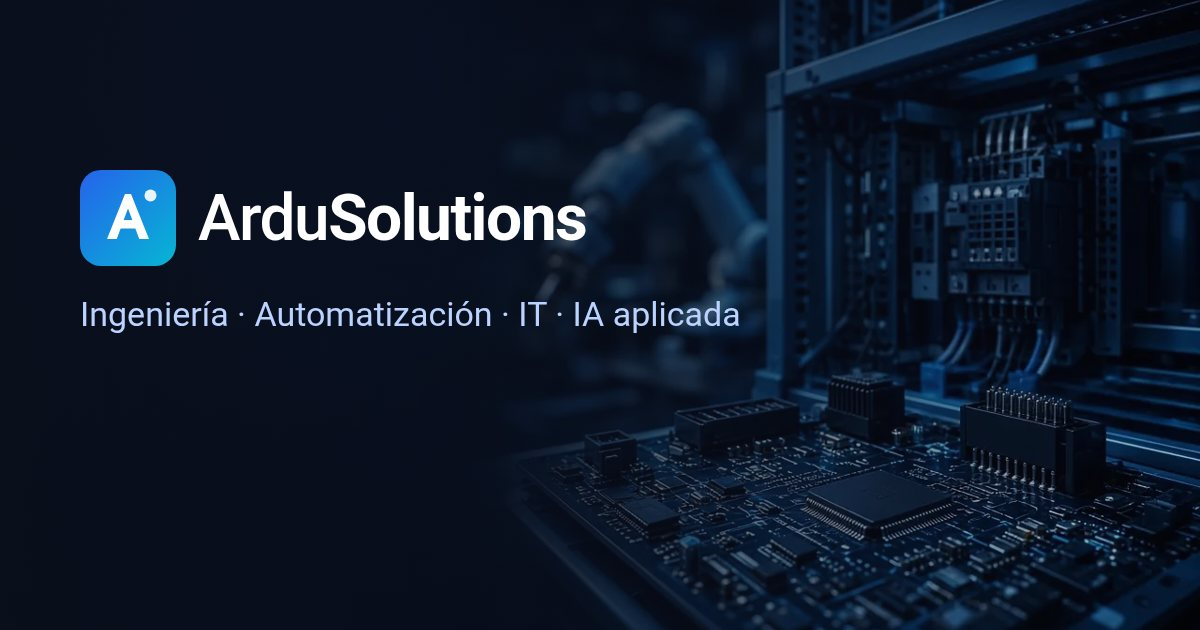
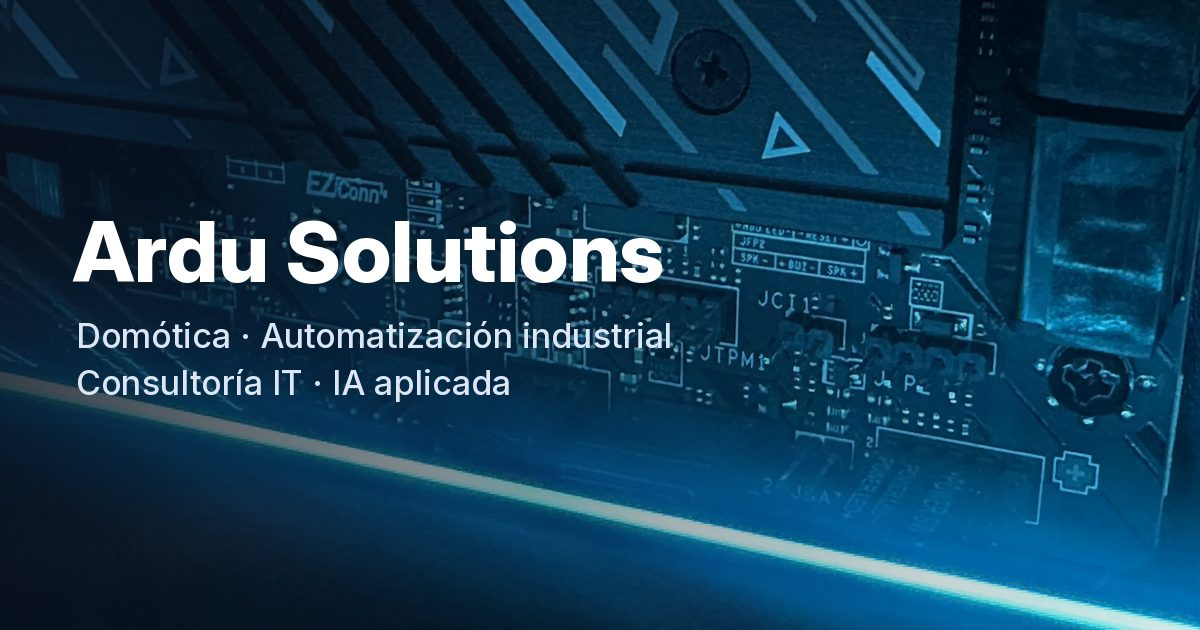
Cabecera con foto propia (sin EXIF), og:image nueva, sin crédito de IA, estilo de opciones del formulario y 404 noindex

diff --git a/aviso-legal/index.html b/aviso-legal/index.html
@@ -193,7 +193,10 @@ main{position:relative}
 .f textarea{resize:vertical;min-height:140px}
 .f input:focus,.f select:focus,.f textarea:focus{outline:2px solid var(--accent);outline-offset:1px;border-color:var(--accent)}
 .f .bad,.bad{border-color:#dc2626!important;box-shadow:0 0 0 3px rgba(220,38,38,.15)}
-.radios{display:flex;flex-wrap:wrap;gap:10px 24px}.radios legend{margin-bottom:8px;width:100%}.radios label{display:flex;align-items:center;gap:8px;font-size:15px;white-space:nowrap}
+.radios{display:flex;flex-wrap:wrap;gap:10px 24px}.radios legend{margin-bottom:8px;width:100%}
+.radios label{display:inline-flex;align-items:center;gap:8px;font-weight:500;cursor:pointer}
+.f.radios input{width:18px;height:18px;padding:0;margin:0;flex:none;accent-color:var(--accent)}
+.consent input{accent-color:var(--accent)}.radios label{display:flex;align-items:center;gap:8px;font-size:15px;white-space:nowrap}
 .hint{margin:-8px 0 0;font-size:14px;color:var(--muted)}
 .hpf{position:absolute;left:-10000px;width:1px;height:1px;overflow:hidden}
 .consent{display:flex;gap:10px;align-items:flex-start;font-size:15px}.consent input{margin-top:5px;width:18px;height:18px;flex:none}
@@ -221,7 +224,7 @@ main{position:relative}
 <nav class="bc" aria-label="Ruta de navegación"><ol class="wrap"><li><a href="../">Inicio</a></li><li aria-current="page">Aviso legal</li></ol></nav><section class="phero"><div class="wrap"><span class="kicker lt">Aviso legal</span><h1>Aviso legal</h1><p class="lead">Ardu Solutions</p></div></section><section><div class="wrap prose"><h2>1. Titular del sitio web</h2><p>En cumplimiento del artículo 10 de la Ley 34/2002, de Servicios de la Sociedad de la Información y de Comercio Electrónico (LSSI-CE), se informa de los datos del titular de este sitio web:</p>
 <ul><li><strong>Titular:</strong> <mark class="todo">[PENDIENTE: nombre completo o razón social del titular]</mark><!-- TODO Miguel: nombre completo o razón social del titular --> (nombre comercial: Ardu Solutions)</li><li><strong>NIF/CIF:</strong> <mark class="todo">[PENDIENTE: NIF o CIF]</mark><!-- TODO Miguel: NIF o CIF --></li><li><strong>Domicilio:</strong> <mark class="todo">[PENDIENTE: domicilio fiscal]</mark><!-- TODO Miguel: domicilio fiscal --></li><li><strong>Contacto:</strong> <mark class="todo">[PENDIENTE: email de contacto]</mark><!-- TODO Miguel: email de contacto --> · también a través del <a href="../solicitar/">formulario de solicitud</a></li><li><strong>Datos registrales:</strong> <mark class="todo">[PENDIENTE: datos del Registro Mercantil, solo si es una sociedad]</mark><!-- TODO Miguel: datos del Registro Mercantil, solo si es una sociedad --></li></ul>
 <h2>2. Objeto y condiciones de uso</h2><p>Este sitio web presenta los servicios de Ardu Solutions (domótica, consultoría informática, automatización industrial e inteligencia artificial aplicada) y permite solicitar información o presupuesto. El acceso es gratuito y no requiere registro. Al usarlo, te comprometes a hacerlo de forma lícita y a no dañar su funcionamiento.</p>
-<h2>3. Propiedad intelectual e industrial</h2><p>Los textos, el logotipo, la marca “Ardu Solutions” y el diseño de este sitio son © 2026 Ardu Solutions, salvo indicación en contrario. El código fuente del sitio se publica bajo licencia GPL-3.0. Las fotografías del equipo y las imágenes de proyectos se usan exclusivamente en esta web. La imagen principal se ha generado con inteligencia artificial.</p>
+<h2>3. Propiedad intelectual e industrial</h2><p>Los textos, el logotipo, la marca “Ardu Solutions” y el diseño de este sitio son © 2026 Ardu Solutions, salvo indicación en contrario. El código fuente del sitio se publica bajo licencia GPL-3.0. Las fotografías del equipo y las imágenes de proyectos se usan exclusivamente en esta web. La fotografía de la cabecera es propia del equipo.</p>
 <h2>4. Responsabilidad</h2><p>Ardu Solutions procura que la información publicada sea correcta y esté actualizada, pero no garantiza la ausencia de errores. La información de esta web es orientativa y no constituye una oferta vinculante: las condiciones de cada servicio se fijan en la propuesta escrita que se envía a cada cliente. Ardu Solutions no se responsabiliza de los contenidos de sitios externos enlazados.</p>
 <h2>5. Protección de datos y cookies</h2><p>El tratamiento de los datos personales se explica en la <a href="../privacidad/">política de privacidad</a>. Este sitio no usa cookies ni herramientas de analítica o publicidad.</p>
 <h2>6. Legislación aplicable</h2><p>Este aviso legal se rige por la legislación española.</p><p class="fine">Última actualización: 30 de octubre de 2026.</p></div></section>
@@ -231,6 +234,6 @@ main{position:relative}
 <div><h2 class="fh">Empresa</h2><ul><li><a href="../como-trabajamos/">Cómo trabajamos</a></li><li><a href="../proyectos/">Proyectos</a></li><li><a href="../#equipo">Equipo</a></li><li><a href="../#faq">Preguntas frecuentes</a></li></ul></div>
 <div><h2 class="fh">Servicios</h2><ul><li><a href="../servicios/domotica/">Domótica para casa</a></li><li><a href="../servicios/consultoria-it/">Consultoría IT para pymes</a></li><li><a href="../servicios/automatizacion-industrial/">Automatización industrial</a></li><li><a href="../servicios/ia-aplicada/">IA aplicada a empresas</a></li></ul></div>
 <div><h2 class="fh">Más</h2><ul><li><a href="../en/legal-notice/" hreflang="en">English</a></li><li><a href="https://ardu01.github.io/proyectos/">Todos los proyectos</a></li><li><a href="../aviso-legal/">Aviso legal</a></li><li><a href="../privacidad/">Política de privacidad</a></li></ul></div>
-</div><div class="wrap fbot"><span>© 2026 Ardu Solutions. Todos los derechos reservados.</span><span>Imagen principal generada con IA. Sin cookies ni rastreadores.</span></div></footer>
+</div><div class="wrap fbot"><span>© 2026 Ardu Solutions. Todos los derechos reservados.</span><span>Sin cookies ni rastreadores.</span></div></footer>
 </body>
 </html>

diff --git a/en/legal-notice/index.html b/en/legal-notice/index.html
@@ -193,7 +193,10 @@ main{position:relative}
 .f textarea{resize:vertical;min-height:140px}
 .f input:focus,.f select:focus,.f textarea:focus{outline:2px solid var(--accent);outline-offset:1px;border-color:var(--accent)}
 .f .bad,.bad{border-color:#dc2626!important;box-shadow:0 0 0 3px rgba(220,38,38,.15)}
-.radios{display:flex;flex-wrap:wrap;gap:10px 24px}.radios legend{margin-bottom:8px;width:100%}.radios label{display:flex;align-items:center;gap:8px;font-size:15px;white-space:nowrap}
+.radios{display:flex;flex-wrap:wrap;gap:10px 24px}.radios legend{margin-bottom:8px;width:100%}
+.radios label{display:inline-flex;align-items:center;gap:8px;font-weight:500;cursor:pointer}
+.f.radios input{width:18px;height:18px;padding:0;margin:0;flex:none;accent-color:var(--accent)}
+.consent input{accent-color:var(--accent)}.radios label{display:flex;align-items:center;gap:8px;font-size:15px;white-space:nowrap}
 .hint{margin:-8px 0 0;font-size:14px;color:var(--muted)}
 .hpf{position:absolute;left:-10000px;width:1px;height:1px;overflow:hidden}
 .consent{display:flex;gap:10px;align-items:flex-start;font-size:15px}.consent input{margin-top:5px;width:18px;height:18px;flex:none}
@@ -221,7 +224,7 @@ main{position:relative}
 <nav class="bc" aria-label="Breadcrumb"><ol class="wrap"><li><a href="../../en/">Home</a></li><li aria-current="page">Legal notice</li></ol></nav><section class="phero"><div class="wrap"><span class="kicker lt">Legal notice</span><h1>Legal notice</h1><p class="lead">Ardu Solutions</p></div></section><section><div class="wrap prose"><h2>1. Website owner</h2><p>In accordance with article 10 of Spanish Law 34/2002 on Information Society Services and E-commerce (LSSI-CE), the owner’s details are:</p>
 <ul><li><strong>Owner:</strong> <mark class="todo">[PENDIENTE: full legal name or company name]</mark><!-- TODO Miguel: full legal name or company name --> (trade name: Ardu Solutions)</li><li><strong>Tax ID (NIF/CIF):</strong> <mark class="todo">[PENDIENTE: NIF or CIF]</mark><!-- TODO Miguel: NIF or CIF --></li><li><strong>Address:</strong> <mark class="todo">[PENDIENTE: registered address]</mark><!-- TODO Miguel: registered address --></li><li><strong>Contact:</strong> <mark class="todo">[PENDIENTE: contact email]</mark><!-- TODO Miguel: contact email --> · also through the <a href="../../en/request/">request form</a></li><li><strong>Registry details:</strong> <mark class="todo">[PENDIENTE: Commercial Registry details, only if a company]</mark><!-- TODO Miguel: Commercial Registry details, only if a company --></li></ul>
 <h2>2. Purpose and terms of use</h2><p>This website presents the services of Ardu Solutions (home automation, IT consulting, industrial automation and applied artificial intelligence) and lets you request information or a quote. Access is free and needs no registration. By using it you agree to do so lawfully and not to harm its operation.</p>
-<h2>3. Intellectual and industrial property</h2><p>The texts, logo, the “Ardu Solutions” brand and the design of this site are © 2026 Ardu Solutions unless stated otherwise. The site’s source code is published under the GPL-3.0 licence. Team photos and project images are used exclusively on this website. The main image was generated with artificial intelligence.</p>
+<h2>3. Intellectual and industrial property</h2><p>The texts, logo, the “Ardu Solutions” brand and the design of this site are © 2026 Ardu Solutions unless stated otherwise. The site’s source code is published under the GPL-3.0 licence. Team photos and project images are used exclusively on this website. The header photograph was taken by the team.</p>
 <h2>4. Liability</h2><p>Ardu Solutions strives to keep the information correct and up to date but does not guarantee it is error-free. The information on this site is for guidance only and is not a binding offer: the terms of each service are set out in the written proposal sent to each client. Ardu Solutions is not responsible for the content of linked external sites.</p>
 <h2>5. Data protection and cookies</h2><p>The processing of personal data is explained in the <a href="../../en/privacy/">privacy policy</a>. This site uses no cookies, analytics or advertising tools.</p>
 <h2>6. Governing law</h2><p>This legal notice is governed by Spanish law. The Spanish version prevails in case of discrepancy.</p><p class="fine">Last updated: 30 October 2026.</p></div></section>
@@ -231,6 +234,6 @@ main{position:relative}
 <div><h2 class="fh">Company</h2><ul><li><a href="../../en/how-we-work/">How we work</a></li><li><a href="../../en/projects/">Projects</a></li><li><a href="../../en/#equipo">Team</a></li><li><a href="../../en/#faq">Frequently asked questions</a></li></ul></div>
 <div><h2 class="fh">Services</h2><ul><li><a href="../../en/services/home-automation/">Home automation</a></li><li><a href="../../en/services/it-consulting/">IT consulting for SMEs</a></li><li><a href="../../en/services/industrial-automation/">Industrial automation</a></li><li><a href="../../en/services/applied-ai/">Applied AI for business</a></li></ul></div>
 <div><h2 class="fh">More</h2><ul><li><a href="../../aviso-legal/" hreflang="es">Español</a></li><li><a href="https://ardu01.github.io/proyectos/">All projects</a></li><li><a href="../../en/legal-notice/">Legal notice</a></li><li><a href="../../en/privacy/">Privacy policy</a></li></ul></div>
-</div><div class="wrap fbot"><span>© 2026 Ardu Solutions. All rights reserved.</span><span>Hero image generated with AI. No cookies or trackers.</span></div></footer>
+</div><div class="wrap fbot"><span>© 2026 Ardu Solutions. All rights reserved.</span><span>No cookies or trackers.</span></div></footer>
 </body>
 </html>

diff --git a/index.html b/index.html
@@ -193,7 +193,10 @@ main{position:relative}
 .f textarea{resize:vertical;min-height:140px}
 .f input:focus,.f select:focus,.f textarea:focus{outline:2px solid var(--accent);outline-offset:1px;border-color:var(--accent)}
 .f .bad,.bad{border-color:#dc2626!important;box-shadow:0 0 0 3px rgba(220,38,38,.15)}
-.radios{display:flex;flex-wrap:wrap;gap:10px 24px}.radios legend{margin-bottom:8px;width:100%}.radios label{display:flex;align-items:center;gap:8px;font-size:15px;white-space:nowrap}
+.radios{display:flex;flex-wrap:wrap;gap:10px 24px}.radios legend{margin-bottom:8px;width:100%}
+.radios label{display:inline-flex;align-items:center;gap:8px;font-weight:500;cursor:pointer}
+.f.radios input{width:18px;height:18px;padding:0;margin:0;flex:none;accent-color:var(--accent)}
+.consent input{accent-color:var(--accent)}.radios label{display:flex;align-items:center;gap:8px;font-size:15px;white-space:nowrap}
 .hint{margin:-8px 0 0;font-size:14px;color:var(--muted)}
 .hpf{position:absolute;left:-10000px;width:1px;height:1px;overflow:hidden}
 .consent{display:flex;gap:10px;align-items:flex-start;font-size:15px}.consent input{margin-top:5px;width:18px;height:18px;flex:none}
@@ -219,7 +222,7 @@ main{position:relative}
 </nav></header>
 <main id="main">
 <section class="hero">
-<img class="hero-bg" src="assets/img/hero.webp" srcset="assets/img/hero-960.webp 960w, assets/img/hero.webp 1280w" sizes="100vw" alt="" width="1280" height="720" fetchpriority="high">
+<picture><source type="image/webp" srcset="assets/img/cabecera-1200.webp 1200w, assets/img/cabecera-1600.webp 1600w, assets/img/cabecera-2400.webp 2400w" sizes="100vw"><img class="hero-bg" src="assets/img/cabecera-1600.jpg" alt="Primer plano de una placa base con circuitos iluminados en azul" width="1600" height="900" fetchpriority="high"></picture>
 <div class="wrap hero-in">
 <div class="eyebrow">Ingeniería · Automatización · IT · IA aplicada</div>
 <h1>Tecnología que trabaja <span class="grad">para ti.</span></h1>
@@ -241,6 +244,6 @@ main{position:relative}
 <div><h2 class="fh">Empresa</h2><ul><li><a href="como-trabajamos/">Cómo trabajamos</a></li><li><a href="proyectos/">Proyectos</a></li><li><a href="./#equipo">Equipo</a></li><li><a href="./#faq">Preguntas frecuentes</a></li></ul></div>
 <div><h2 class="fh">Servicios</h2><ul><li><a href="servicios/domotica/">Domótica para casa</a></li><li><a href="servicios/consultoria-it/">Consultoría IT para pymes</a></li><li><a href="servicios/automatizacion-industrial/">Automatización industrial</a></li><li><a href="servicios/ia-aplicada/">IA aplicada a empresas</a></li></ul></div>
 <div><h2 class="fh">Más</h2><ul><li><a href="en/" hreflang="en">English</a></li><li><a href="https://ardu01.github.io/proyectos/">Todos los proyectos</a></li><li><a href="aviso-legal/">Aviso legal</a></li><li><a href="privacidad/">Política de privacidad</a></li></ul></div>
-</div><div class="wrap fbot"><span>© 2026 Ardu Solutions. Todos los derechos reservados.</span><span>Imagen principal generada con IA. Sin cookies ni rastreadores.</span></div></footer>
+</div><div class="wrap fbot"><span>© 2026 Ardu Solutions. Todos los derechos reservados.</span><span>Sin cookies ni rastreadores.</span></div></footer>
 </body>
 </html>

diff --git a/en/index.html b/en/index.html
@@ -193,7 +193,10 @@ main{position:relative}
 .f textarea{resize:vertical;min-height:140px}
 .f input:focus,.f select:focus,.f textarea:focus{outline:2px solid var(--accent);outline-offset:1px;border-color:var(--accent)}
 .f .bad,.bad{border-color:#dc2626!important;box-shadow:0 0 0 3px rgba(220,38,38,.15)}
-.radios{display:flex;flex-wrap:wrap;gap:10px 24px}.radios legend{margin-bottom:8px;width:100%}.radios label{display:flex;align-items:center;gap:8px;font-size:15px;white-space:nowrap}
+.radios{display:flex;flex-wrap:wrap;gap:10px 24px}.radios legend{margin-bottom:8px;width:100%}
+.radios label{display:inline-flex;align-items:center;gap:8px;font-weight:500;cursor:pointer}
+.f.radios input{width:18px;height:18px;padding:0;margin:0;flex:none;accent-color:var(--accent)}
+.consent input{accent-color:var(--accent)}.radios label{display:flex;align-items:center;gap:8px;font-size:15px;white-space:nowrap}
 .hint{margin:-8px 0 0;font-size:14px;color:var(--muted)}
 .hpf{position:absolute;left:-10000px;width:1px;height:1px;overflow:hidden}
 .consent{display:flex;gap:10px;align-items:flex-start;font-size:15px}.consent input{margin-top:5px;width:18px;height:18px;flex:none}
@@ -219,7 +222,7 @@ main{position:relative}
 </nav></header>
 <main id="main">
 <section class="hero">
-<img class="hero-bg" src="../assets/img/hero.webp" srcset="../assets/img/hero-960.webp 960w, ../assets/img/hero.webp 1280w" sizes="100vw" alt="" width="1280" height="720" fetchpriority="high">
+<picture><source type="image/webp" srcset="../assets/img/cabecera-1200.webp 1200w, ../assets/img/cabecera-1600.webp 1600w, ../assets/img/cabecera-2400.webp 2400w" sizes="100vw"><img class="hero-bg" src="../assets/img/cabecera-1600.jpg" alt="Close-up of a motherboard with circuits lit in blue" width="1600" height="900" fetchpriority="high"></picture>
 <div class="wrap hero-in">
 <div class="eyebrow">Engineering · Automation · IT · Applied AI</div>
 <h1>Technology that <span class="grad">works for you.</span></h1>
@@ -241,6 +244,6 @@ main{position:relative}
 <div><h2 class="fh">Company</h2><ul><li><a href="../en/how-we-work/">How we work</a></li><li><a href="../en/projects/">Projects</a></li><li><a href="../en/#equipo">Team</a></li><li><a href="../en/#faq">Frequently asked questions</a></li></ul></div>
 <div><h2 class="fh">Services</h2><ul><li><a href="../en/services/home-automation/">Home automation</a></li><li><a href="../en/services/it-consulting/">IT consulting for SMEs</a></li><li><a href="../en/services/industrial-automation/">Industrial automation</a></li><li><a href="../en/services/applied-ai/">Applied AI for business</a></li></ul></div>
 <div><h2 class="fh">More</h2><ul><li><a href="../" hreflang="es">Español</a></li><li><a href="https://ardu01.github.io/proyectos/">All projects</a></li><li><a href="../en/legal-notice/">Legal notice</a></li><li><a href="../en/privacy/">Privacy policy</a></li></ul></div>
-</div><div class="wrap fbot"><span>© 2026 Ardu Solutions. All rights reserved.</span><span>Hero image generated with AI. No cookies or trackers.</span></div></footer>
+</div><div class="wrap fbot"><span>© 2026 Ardu Solutions. All rights reserved.</span><span>No cookies or trackers.</span></div></footer>
 </body>
 </html>

diff --git a/servicios/automatizacion-industrial/index.html b/servicios/automatizacion-industrial/index.html
@@ -193,7 +193,10 @@ main{position:relative}
 .f textarea{resize:vertical;min-height:140px}
 .f input:focus,.f select:focus,.f textarea:focus{outline:2px solid var(--accent);outline-offset:1px;border-color:var(--accent)}
 .f .bad,.bad{border-color:#dc2626!important;box-shadow:0 0 0 3px rgba(220,38,38,.15)}
-.radios{display:flex;flex-wrap:wrap;gap:10px 24px}.radios legend{margin-bottom:8px;width:100%}.radios label{display:flex;align-items:center;gap:8px;font-size:15px;white-space:nowrap}
+.radios{display:flex;flex-wrap:wrap;gap:10px 24px}.radios legend{margin-bottom:8px;width:100%}
+.radios label{display:inline-flex;align-items:center;gap:8px;font-weight:500;cursor:pointer}
+.f.radios input{width:18px;height:18px;padding:0;margin:0;flex:none;accent-color:var(--accent)}
+.consent input{accent-color:var(--accent)}.radios label{display:flex;align-items:center;gap:8px;font-size:15px;white-space:nowrap}
 .hint{margin:-8px 0 0;font-size:14px;color:var(--muted)}
 .hpf{position:absolute;left:-10000px;width:1px;height:1px;overflow:hidden}
 .consent{display:flex;gap:10px;align-items:flex-start;font-size:15px}.consent input{margin-top:5px;width:18px;height:18px;flex:none}
@@ -231,6 +234,6 @@ main{position:relative}
 <div><h2 class="fh">Empresa</h2><ul><li><a href="../../como-trabajamos/">Cómo trabajamos</a></li><li><a href="../../proyectos/">Proyectos</a></li><li><a href="../../#equipo">Equipo</a></li><li><a href="../../#faq">Preguntas frecuentes</a></li></ul></div>
 <div><h2 class="fh">Servicios</h2><ul><li><a href="../../servicios/domotica/">Domótica para casa</a></li><li><a href="../../servicios/consultoria-it/">Consultoría IT para pymes</a></li><li><a href="../../servicios/automatizacion-industrial/">Automatización industrial</a></li><li><a href="../../servicios/ia-aplicada/">IA aplicada a empresas</a></li></ul></div>
 <div><h2 class="fh">Más</h2><ul><li><a href="../../en/services/industrial-automation/" hreflang="en">English</a></li><li><a href="https://ardu01.github.io/proyectos/">Todos los proyectos</a></li><li><a href="../../aviso-legal/">Aviso legal</a></li><li><a href="../../privacidad/">Política de privacidad</a></li></ul></div>
-</div><div class="wrap fbot"><span>© 2026 Ardu Solutions. Todos los derechos reservados.</span><span>Imagen principal generada con IA. Sin cookies ni rastreadores.</span></div></footer>
+</div><div class="wrap fbot"><span>© 2026 Ardu Solutions. Todos los derechos reservados.</span><span>Sin cookies ni rastreadores.</span></div></footer>
 </body>
 </html>

diff --git a/servicios/domotica/index.html b/servicios/domotica/index.html
@@ -193,7 +193,10 @@ main{position:relative}
 .f textarea{resize:vertical;min-height:140px}
 .f input:focus,.f select:focus,.f textarea:focus{outline:2px solid var(--accent);outline-offset:1px;border-color:var(--accent)}
 .f .bad,.bad{border-color:#dc2626!important;box-shadow:0 0 0 3px rgba(220,38,38,.15)}
-.radios{display:flex;flex-wrap:wrap;gap:10px 24px}.radios legend{margin-bottom:8px;width:100%}.radios label{display:flex;align-items:center;gap:8px;font-size:15px;white-space:nowrap}
+.radios{display:flex;flex-wrap:wrap;gap:10px 24px}.radios legend{margin-bottom:8px;width:100%}
+.radios label{display:inline-flex;align-items:center;gap:8px;font-weight:500;cursor:pointer}
+.f.radios input{width:18px;height:18px;padding:0;margin:0;flex:none;accent-color:var(--accent)}
+.consent input{accent-color:var(--accent)}.radios label{display:flex;align-items:center;gap:8px;font-size:15px;white-space:nowrap}
 .hint{margin:-8px 0 0;font-size:14px;color:var(--muted)}
 .hpf{position:absolute;left:-10000px;width:1px;height:1px;overflow:hidden}
 .consent{display:flex;gap:10px;align-items:flex-start;font-size:15px}.consent input{margin-top:5px;width:18px;height:18px;flex:none}
@@ -231,6 +234,6 @@ main{position:relative}
 <div><h2 class="fh">Empresa</h2><ul><li><a href="../../como-trabajamos/">Cómo trabajamos</a></li><li><a href="../../proyectos/">Proyectos</a></li><li><a href="../../#equipo">Equipo</a></li><li><a href="../../#faq">Preguntas frecuentes</a></li></ul></div>
 <div><h2 class="fh">Servicios</h2><ul><li><a href="../../servicios/domotica/">Domótica para casa</a></li><li><a href="../../servicios/consultoria-it/">Consultoría IT para pymes</a></li><li><a href="../../servicios/automatizacion-industrial/">Automatización industrial</a></li><li><a href="../../servicios/ia-aplicada/">IA aplicada a empresas</a></li></ul></div>
 <div><h2 class="fh">Más</h2><ul><li><a href="../../en/services/home-automation/" hreflang="en">English</a></li><li><a href="https://ardu01.github.io/proyectos/">Todos los proyectos</a></li><li><a href="../../aviso-legal/">Aviso legal</a></li><li><a href="../../privacidad/">Política de privacidad</a></li></ul></div>
-</div><div class="wrap fbot"><span>© 2026 Ardu Solutions. Todos los derechos reservados.</span><span>Imagen principal generada con IA. Sin cookies ni rastreadores.</span></div></footer>
+</div><div class="wrap fbot"><span>© 2026 Ardu Solutions. Todos los derechos reservados.</span><span>Sin cookies ni rastreadores.</span></div></footer>
 </body>
 </html>

diff --git a/en/services/industrial-automation/index.html b/en/services/industrial-automation/index.html
@@ -193,7 +193,10 @@ main{position:relative}
 .f textarea{resize:vertical;min-height:140px}
 .f input:focus,.f select:focus,.f textarea:focus{outline:2px solid var(--accent);outline-offset:1px;border-color:var(--accent)}
 .f .bad,.bad{border-color:#dc2626!important;box-shadow:0 0 0 3px rgba(220,38,38,.15)}
-.radios{display:flex;flex-wrap:wrap;gap:10px 24px}.radios legend{margin-bottom:8px;width:100%}.radios label{display:flex;align-items:center;gap:8px;font-size:15px;white-space:nowrap}
+.radios{display:flex;flex-wrap:wrap;gap:10px 24px}.radios legend{margin-bottom:8px;width:100%}
+.radios label{display:inline-flex;align-items:center;gap:8px;font-weight:500;cursor:pointer}
+.f.radios input{width:18px;height:18px;padding:0;margin:0;flex:none;accent-color:var(--accent)}
+.consent input{accent-color:var(--accent)}.radios label{display:flex;align-items:center;gap:8px;font-size:15px;white-space:nowrap}
 .hint{margin:-8px 0 0;font-size:14px;color:var(--muted)}
 .hpf{position:absolute;left:-10000px;width:1px;height:1px;overflow:hidden}
 .consent{display:flex;gap:10px;align-items:flex-start;font-size:15px}.consent input{margin-top:5px;width:18px;height:18px;flex:none}
@@ -231,6 +234,6 @@ main{position:relative}
 <div><h2 class="fh">Company</h2><ul><li><a href="../../../en/how-we-work/">How we work</a></li><li><a href="../../../en/projects/">Projects</a></li><li><a href="../../../en/#equipo">Team</a></li><li><a href="../../../en/#faq">Frequently asked questions</a></li></ul></div>
 <div><h2 class="fh">Services</h2><ul><li><a href="../../../en/services/home-automation/">Home automation</a></li><li><a href="../../../en/services/it-consulting/">IT consulting for SMEs</a></li><li><a href="../../../en/services/industrial-automation/">Industrial automation</a></li><li><a href="../../../en/services/applied-ai/">Applied AI for business</a></li></ul></div>
 <div><h2 class="fh">More</h2><ul><li><a href="../../../servicios/automatizacion-industrial/" hreflang="es">Español</a></li><li><a href="https://ardu01.github.io/proyectos/">All projects</a></li><li><a href="../../../en/legal-notice/">Legal notice</a></li><li><a href="../../../en/privacy/">Privacy policy</a></li></ul></div>
-</div><div class="wrap fbot"><span>© 2026 Ardu Solutions. All rights reserved.</span><span>Hero image generated with AI. No cookies or trackers.</span></div></footer>
+</div><div class="wrap fbot"><span>© 2026 Ardu Solutions. All rights reserved.</span><span>No cookies or trackers.</span></div></footer>
 </body>
 </html>

diff --git a/servicios/consultoria-it/index.html b/servicios/consultoria-it/index.html
@@ -193,7 +193,10 @@ main{position:relative}
 .f textarea{resize:vertical;min-height:140px}
 .f input:focus,.f select:focus,.f textarea:focus{outline:2px solid var(--accent);outline-offset:1px;border-color:var(--accent)}
 .f .bad,.bad{border-color:#dc2626!important;box-shadow:0 0 0 3px rgba(220,38,38,.15)}
-.radios{display:flex;flex-wrap:wrap;gap:10px 24px}.radios legend{margin-bottom:8px;width:100%}.radios label{display:flex;align-items:center;gap:8px;font-size:15px;white-space:nowrap}
+.radios{display:flex;flex-wrap:wrap;gap:10px 24px}.radios legend{margin-bottom:8px;width:100%}
+.radios label{display:inline-flex;align-items:center;gap:8px;font-weight:500;cursor:pointer}
+.f.radios input{width:18px;height:18px;padding:0;margin:0;flex:none;accent-color:var(--accent)}
+.consent input{accent-color:var(--accent)}.radios label{display:flex;align-items:center;gap:8px;font-size:15px;white-space:nowrap}
 .hint{margin:-8px 0 0;font-size:14px;color:var(--muted)}
 .hpf{position:absolute;left:-10000px;width:1px;height:1px;overflow:hidden}
 .consent{display:flex;gap:10px;align-items:flex-start;font-size:15px}.consent input{margin-top:5px;width:18px;height:18px;flex:none}
@@ -231,6 +234,6 @@ main{position:relative}
 <div><h2 class="fh">Empresa</h2><ul><li><a href="../../como-trabajamos/">Cómo trabajamos</a></li><li><a href="../../proyectos/">Proyectos</a></li><li><a href="../../#equipo">Equipo</a></li><li><a href="../../#faq">Preguntas frecuentes</a></li></ul></div>
 <div><h2 class="fh">Servicios</h2><ul><li><a href="../../servicios/domotica/">Domótica para casa</a></li><li><a href="../../servicios/consultoria-it/">Consultoría IT para pymes</a></li><li><a href="../../servicios/automatizacion-industrial/">Automatización industrial</a></li><li><a href="../../servicios/ia-aplicada/">IA aplicada a empresas</a></li></ul></div>
 <div><h2 class="fh">Más</h2><ul><li><a href="../../en/services/it-consulting/" hreflang="en">English</a></li><li><a href="https://ardu01.github.io/proyectos/">Todos los proyectos</a></li><li><a href="../../aviso-legal/">Aviso legal</a></li><li><a href="../../privacidad/">Política de privacidad</a></li></ul></div>
-</div><div class="wrap fbot"><span>© 2026 Ardu Solutions. Todos los derechos reservados.</span><span>Imagen principal generada con IA. Sin cookies ni rastreadores.</span></div></footer>
+</div><div class="wrap fbot"><span>© 2026 Ardu Solutions. Todos los derechos reservados.</span><span>Sin cookies ni rastreadores.</span></div></footer>
 </body>
 </html>

diff --git a/servicios/ia-aplicada/index.html b/servicios/ia-aplicada/index.html
@@ -193,7 +193,10 @@ main{position:relative}
 .f textarea{resize:vertical;min-height:140px}
 .f input:focus,.f select:focus,.f textarea:focus{outline:2px solid var(--accent);outline-offset:1px;border-color:var(--accent)}
 .f .bad,.bad{border-color:#dc2626!important;box-shadow:0 0 0 3px rgba(220,38,38,.15)}
-.radios{display:flex;flex-wrap:wrap;gap:10px 24px}.radios legend{margin-bottom:8px;width:100%}.radios label{display:flex;align-items:center;gap:8px;font-size:15px;white-space:nowrap}
+.radios{display:flex;flex-wrap:wrap;gap:10px 24px}.radios legend{margin-bottom:8px;width:100%}
+.radios label{display:inline-flex;align-items:center;gap:8px;font-weight:500;cursor:pointer}
+.f.radios input{width:18px;height:18px;padding:0;margin:0;flex:none;accent-color:var(--accent)}
+.consent input{accent-color:var(--accent)}.radios label{display:flex;align-items:center;gap:8px;font-size:15px;white-space:nowrap}
 .hint{margin:-8px 0 0;font-size:14px;color:var(--muted)}
 .hpf{position:absolute;left:-10000px;width:1px;height:1px;overflow:hidden}
 .consent{display:flex;gap:10px;align-items:flex-start;font-size:15px}.consent input{margin-top:5px;width:18px;height:18px;flex:none}
@@ -231,6 +234,6 @@ main{position:relative}
 <div><h2 class="fh">Empresa</h2><ul><li><a href="../../como-trabajamos/">Cómo trabajamos</a></li><li><a href="../../proyectos/">Proyectos</a></li><li><a href="../../#equipo">Equipo</a></li><li><a href="../../#faq">Preguntas frecuentes</a></li></ul></div>
 <div><h2 class="fh">Servicios</h2><ul><li><a href="../../servicios/domotica/">Domótica para casa</a></li><li><a href="../../servicios/consultoria-it/">Consultoría IT para pymes</a></li><li><a href="../../servicios/automatizacion-industrial/">Automatización industrial</a></li><li><a href="../../servicios/ia-aplicada/">IA aplicada a empresas</a></li></ul></div>
 <div><h2 class="fh">Más</h2><ul><li><a href="../../en/services/applied-ai/" hreflang="en">English</a></li><li><a href="https://ardu01.github.io/proyectos/">Todos los proyectos</a></li><li><a href="../../aviso-legal/">Aviso legal</a></li><li><a href="../../privacidad/">Política de privacidad</a></li></ul></div>
-</div><div class="wrap fbot"><span>© 2026 Ardu Solutions. Todos los derechos reservados.</span><span>Imagen principal generada con IA. Sin cookies ni rastreadores.</span></div></footer>
+</div><div class="wrap fbot"><span>© 2026 Ardu Solutions. Todos los derechos reservados.</span><span>Sin cookies ni rastreadores.</span></div></footer>
 </body>
 </html>

diff --git a/solicitar/gracias/index.html b/solicitar/gracias/index.html
@@ -193,7 +193,10 @@ main{position:relative}
 .f textarea{resize:vertical;min-height:140px}
 .f input:focus,.f select:focus,.f textarea:focus{outline:2px solid var(--accent);outline-offset:1px;border-color:var(--accent)}
 .f .bad,.bad{border-color:#dc2626!important;box-shadow:0 0 0 3px rgba(220,38,38,.15)}
-.radios{display:flex;flex-wrap:wrap;gap:10px 24px}.radios legend{margin-bottom:8px;width:100%}.radios label{display:flex;align-items:center;gap:8px;font-size:15px;white-space:nowrap}
+.radios{display:flex;flex-wrap:wrap;gap:10px 24px}.radios legend{margin-bottom:8px;width:100%}
+.radios label{display:inline-flex;align-items:center;gap:8px;font-weight:500;cursor:pointer}
+.f.radios input{width:18px;height:18px;padding:0;margin:0;flex:none;accent-color:var(--accent)}
+.consent input{accent-color:var(--accent)}.radios label{display:flex;align-items:center;gap:8px;font-size:15px;white-space:nowrap}
 .hint{margin:-8px 0 0;font-size:14px;color:var(--muted)}
 .hpf{position:absolute;left:-10000px;width:1px;height:1px;overflow:hidden}
 .consent{display:flex;gap:10px;align-items:flex-start;font-size:15px}.consent input{margin-top:5px;width:18px;height:18px;flex:none}
@@ -225,6 +228,6 @@ main{position:relative}
 <div><h2 class="fh">Empresa</h2><ul><li><a href="../../como-trabajamos/">Cómo trabajamos</a></li><li><a href="../../proyectos/">Proyectos</a></li><li><a href="../../#equipo">Equipo</a></li><li><a href="../../#faq">Preguntas frecuentes</a></li></ul></div>
 <div><h2 class="fh">Servicios</h2><ul><li><a href="../../servicios/domotica/">Domótica para casa</a></li><li><a href="../../servicios/consultoria-it/">Consultoría IT para pymes</a></li><li><a href="../../servicios/automatizacion-industrial/">Automatización industrial</a></li><li><a href="../../servicios/ia-aplicada/">IA aplicada a empresas</a></li></ul></div>
 <div><h2 class="fh">Más</h2><ul><li><a href="../../en/request/thanks/" hreflang="en">English</a></li><li><a href="https://ardu01.github.io/proyectos/">Todos los proyectos</a></li><li><a href="../../aviso-legal/">Aviso legal</a></li><li><a href="../../privacidad/">Política de privacidad</a></li></ul></div>
-</div><div class="wrap fbot"><span>© 2026 Ardu Solutions. Todos los derechos reservados.</span><span>Imagen principal generada con IA. Sin cookies ni rastreadores.</span></div></footer>
+</div><div class="wrap fbot"><span>© 2026 Ardu Solutions. Todos los derechos reservados.</span><span>Sin cookies ni rastreadores.</span></div></footer>
 </body>
 </html>

diff --git a/en/services/it-consulting/index.html b/en/services/it-consulting/index.html
@@ -193,7 +193,10 @@ main{position:relative}
 .f textarea{resize:vertical;min-height:140px}
 .f input:focus,.f select:focus,.f textarea:focus{outline:2px solid var(--accent);outline-offset:1px;border-color:var(--accent)}
 .f .bad,.bad{border-color:#dc2626!important;box-shadow:0 0 0 3px rgba(220,38,38,.15)}
-.radios{display:flex;flex-wrap:wrap;gap:10px 24px}.radios legend{margin-bottom:8px;width:100%}.radios label{display:flex;align-items:center;gap:8px;font-size:15px;white-space:nowrap}
+.radios{display:flex;flex-wrap:wrap;gap:10px 24px}.radios legend{margin-bottom:8px;width:100%}
+.radios label{display:inline-flex;align-items:center;gap:8px;font-weight:500;cursor:pointer}
+.f.radios input{width:18px;height:18px;padding:0;margin:0;flex:none;accent-color:var(--accent)}
+.consent input{accent-color:var(--accent)}.radios label{display:flex;align-items:center;gap:8px;font-size:15px;white-space:nowrap}
 .hint{margin:-8px 0 0;font-size:14px;color:var(--muted)}
 .hpf{position:absolute;left:-10000px;width:1px;height:1px;overflow:hidden}
 .consent{display:flex;gap:10px;align-items:flex-start;font-size:15px}.consent input{margin-top:5px;width:18px;height:18px;flex:none}
@@ -231,6 +234,6 @@ main{position:relative}
 <div><h2 class="fh">Company</h2><ul><li><a href="../../../en/how-we-work/">How we work</a></li><li><a href="../../../en/projects/">Projects</a></li><li><a href="../../../en/#equipo">Team</a></li><li><a href="../../../en/#faq">Frequently asked questions</a></li></ul></div>
 <div><h2 class="fh">Services</h2><ul><li><a href="../../../en/services/home-automation/">Home automation</a></li><li><a href="../../../en/services/it-consulting/">IT consulting for SMEs</a></li><li><a href="../../../en/services/industrial-automation/">Industrial automation</a></li><li><a href="../../../en/services/applied-ai/">Applied AI for business</a></li></ul></div>
 <div><h2 class="fh">More</h2><ul><li><a href="../../../servicios/consultoria-it/" hreflang="es">Español</a></li><li><a href="https://ardu01.github.io/proyectos/">All projects</a></li><li><a href="../../../en/legal-notice/">Legal notice</a></li><li><a href="../../../en/privacy/">Privacy policy</a></li></ul></div>
-</div><div class="wrap fbot"><span>© 2026 Ardu Solutions. All rights reserved.</span><span>Hero image generated with AI. No cookies or trackers.</span></div></footer>
+</div><div class="wrap fbot"><span>© 2026 Ardu Solutions. All rights reserved.</span><span>No cookies or trackers.</span></div></footer>
 </body>
 </html>

diff --git a/en/services/applied-ai/index.html b/en/services/applied-ai/index.html
@@ -193,7 +193,10 @@ main{position:relative}
 .f textarea{resize:vertical;min-height:140px}
 .f input:focus,.f select:focus,.f textarea:focus{outline:2px solid var(--accent);outline-offset:1px;border-color:var(--accent)}
 .f .bad,.bad{border-color:#dc2626!important;box-shadow:0 0 0 3px rgba(220,38,38,.15)}
-.radios{display:flex;flex-wrap:wrap;gap:10px 24px}.radios legend{margin-bottom:8px;width:100%}.radios label{display:flex;align-items:center;gap:8px;font-size:15px;white-space:nowrap}
+.radios{display:flex;flex-wrap:wrap;gap:10px 24px}.radios legend{margin-bottom:8px;width:100%}
+.radios label{display:inline-flex;align-items:center;gap:8px;font-weight:500;cursor:pointer}
+.f.radios input{width:18px;height:18px;padding:0;margin:0;flex:none;accent-color:var(--accent)}
+.consent input{accent-color:var(--accent)}.radios label{display:flex;align-items:center;gap:8px;font-size:15px;white-space:nowrap}
 .hint{margin:-8px 0 0;font-size:14px;color:var(--muted)}
 .hpf{position:absolute;left:-10000px;width:1px;height:1px;overflow:hidden}
 .consent{display:flex;gap:10px;align-items:flex-start;font-size:15px}.consent input{margin-top:5px;width:18px;height:18px;flex:none}
@@ -231,6 +234,6 @@ main{position:relative}
 <div><h2 class="fh">Company</h2><ul><li><a href="../../../en/how-we-work/">How we work</a></li><li><a href="../../../en/projects/">Projects</a></li><li><a href="../../../en/#equipo">Team</a></li><li><a href="../../../en/#faq">Frequently asked questions</a></li></ul></div>
 <div><h2 class="fh">Services</h2><ul><li><a href="../../../en/services/home-automation/">Home automation</a></li><li><a href="../../../en/services/it-consulting/">IT consulting for SMEs</a></li><li><a href="../../../en/services/industrial-automation/">Industrial automation</a></li><li><a href="../../../en/services/applied-ai/">Applied AI for business</a></li></ul></div>
 <div><h2 class="fh">More</h2><ul><li><a href="../../../servicios/ia-aplicada/" hreflang="es">Español</a></li><li><a href="https://ardu01.github.io/proyectos/">All projects</a></li><li><a href="../../../en/legal-notice/">Legal notice</a></li><li><a href="../../../en/privacy/">Privacy policy</a></li></ul></div>
-</div><div class="wrap fbot"><span>© 2026 Ardu Solutions. All rights reserved.</span><span>Hero image generated with AI. No cookies or trackers.</span></div></footer>
+</div><div class="wrap fbot"><span>© 2026 Ardu Solutions. All rights reserved.</span><span>No cookies or trackers.</span></div></footer>
 </body>
 </html>
